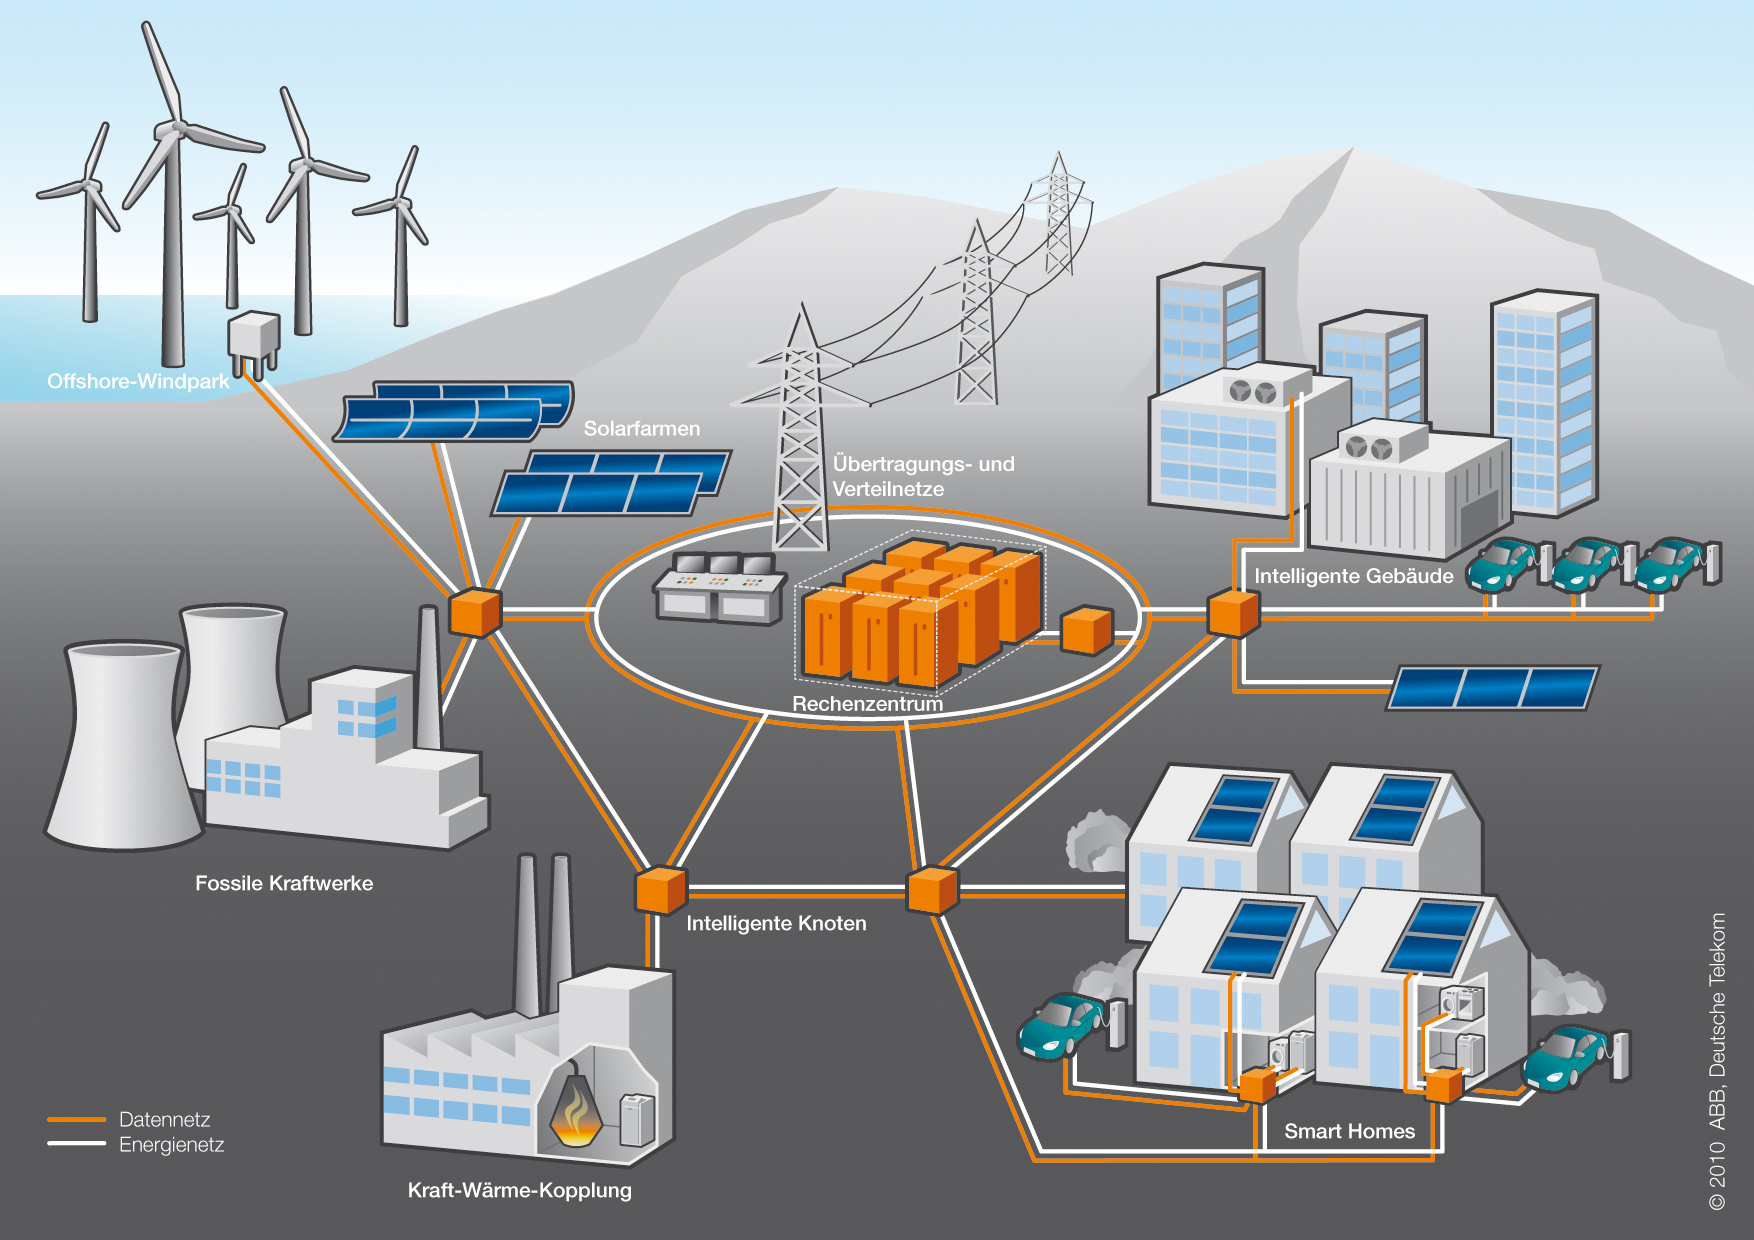
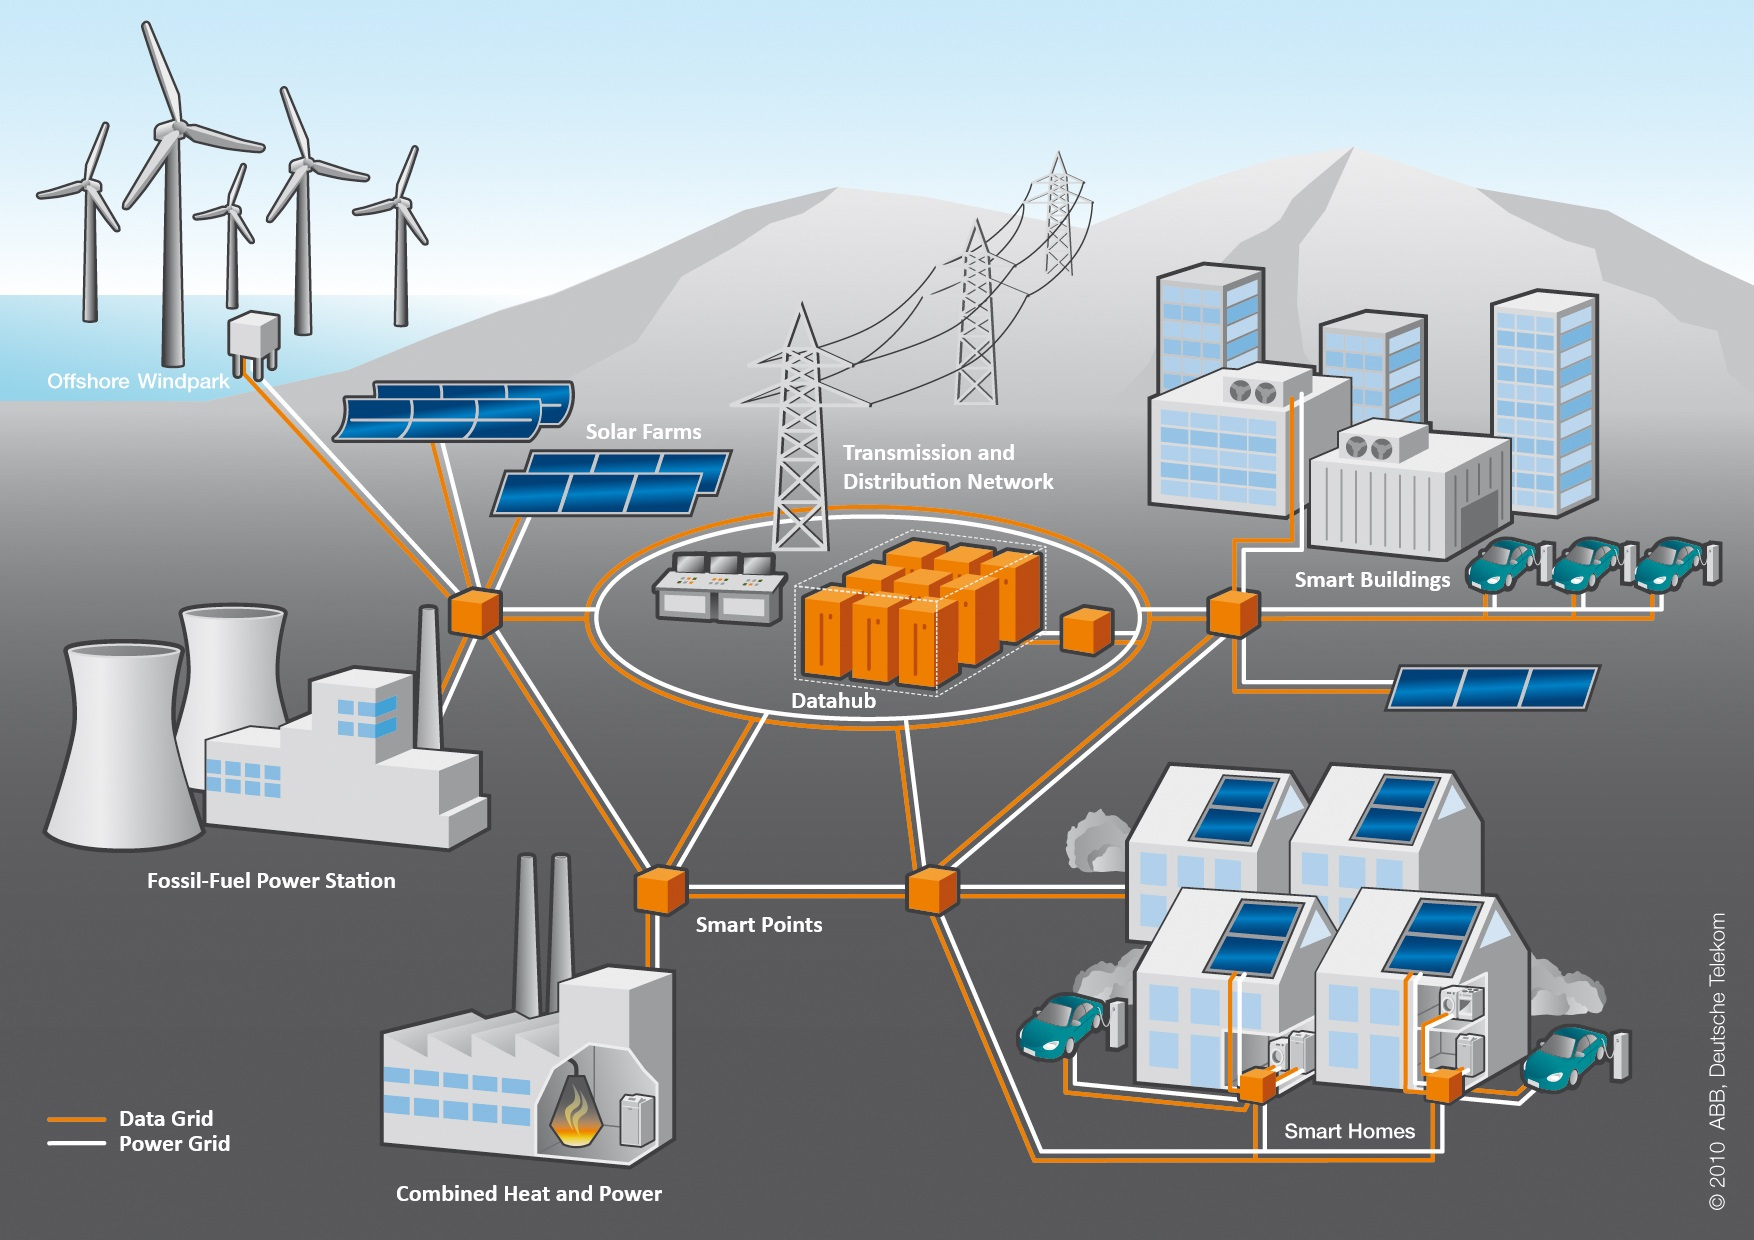
Translated smart grid figure, changed caption

diff --git a/sections/background.tex b/sections/background.tex
@@ -29,10 +29,8 @@ A smart grid serves several purposes, such as allowing for/enabling \cite{smartg
 
 \begin{figure}
 	\includegraphics[width=\textwidth]{figures/SmartGrid_Ueberblick_ohneLegende.jpg}
-	\caption{\url{http://powertown.no/wp-content/uploads/2011/11/SmartGrid_Ueberblick_ohneLegende.jpg} \url{https://www.telekom.com/medien/bild-ton-und-infografiken/infografiken/155030}
-		\mikael[]{This needs to be translated.}
-		\mikael[]{Don't know how to handle figure source(s), also in relation to translation.}
-	}
+	\caption{Smart grid outline.\\
+		(Source: {\scriptsize\url{https://www.telekom.com/medien/bild-ton-und-infografiken/infografiken/155030}})}
 	\label{fig:background:smartgrid}
 \end{figure}
 
